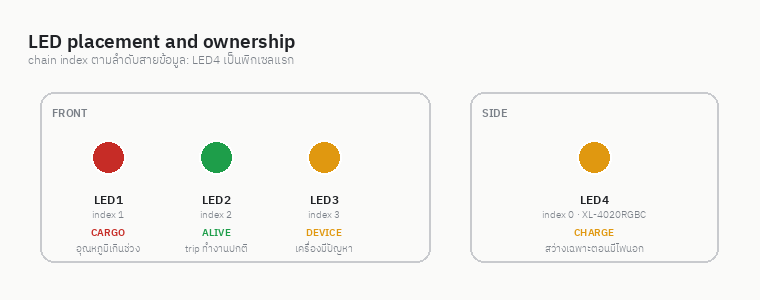
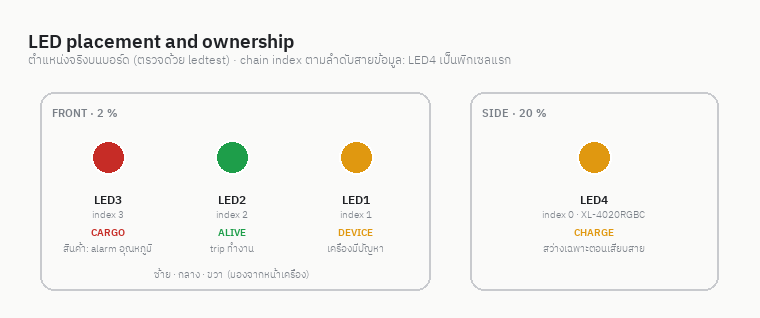
led-mock: redrawn from the firmware as built; led-design: LED names as on the board
- Front lights left to right are LED3 . LED2 . LED1 (checked with
  ledtest): CARGO is LED3 on the left, DEVICE is LED1 on the right. The
  design doc had LED1 as CARGO; roles and designators now match.
- Patterns from indicate.cpp / chargeled.cpp: TRIPLE 80/70 ms, breathe
  12-100 % over 2 s, the side light's steady, slow-blink and fault-blink;
  FAST dropped (defined, not used).
- Brightness on the map: front 2 %, side 20 %.
- New led_states.png: when each light shows, on battery and on USB.

diff --git a/led-mock/patterns.py b/led-mock/patterns.py
@@ -1,11 +1,17 @@
 #!/usr/bin/env python3
 """mCOLD LED pattern diagrams.
 
-Draws the pattern vocabulary as timelines and the four pixels as they sit
-on the enclosure. These are reference drawings for people, not panel
-output, so they are rendered normally (antialiased, full colour) unlike
-the e-paper mockups in ../display-mock.
+Draws the pattern vocabulary as timelines, the four pixels as they sit on
+the enclosure, and when each light shows. These are reference drawings for
+people, not panel output, so they are rendered normally (antialiased, full
+colour) unlike the e-paper mockups in ../display-mock.
+
+Every timing and colour here is the firmware's, as built (updated
+2026-10-03): front patterns in firmware/src/indicate.cpp (PATS, sweep),
+the side light in firmware/src/chargeled.cpp, pixel order in
+firmware/src/leds.h. Change those first, then this.
 """
+import math
 from pathlib import Path
 from PIL import Image, ImageDraw, ImageFont
 
@@ -17,7 +23,8 @@ MUTED = (122, 128, 136)
 PAPER = (250, 250, 249)
 GRID = (222, 224, 228)
 
-# LED colours as named in the spec, at the capped brightness they run at.
+# LED colours as the firmware sends them, drawn at full strength so they
+# can be told apart; the front pixels really run at 2 % and the side at 20 %.
 RED = (198, 44, 38)
 GREEN = (30, 158, 74)
 AMBER = (224, 152, 16)
@@ -29,36 +36,38 @@ def font(weight, size):
     return ImageFont.truetype(str(FONTS / f"IBMPlexSansThai-{weight}.ttf"), size)
 
 
-# (label, note, colour, sequence) where the sequence is (ms, on) pairs.
-# "on" may be "ramp" for the breathing pattern.
+# (label, note, colour, sequence): (ms, on) pairs, "on" may be "breathe".
+# Front patterns: indicate.cpp PATS. Side: chargeled.cpp render().
 PATTERNS = [
-    ("TICK", "heartbeat, one per wake cycle", GREEN, [(40, True)]),
-    ("BLINK", "single acknowledgement", BLUE, [(120, True)]),
-    ("DOUBLE", "alarm, cargo temperature out of band", RED,
-     [(80, True), (120, False), (80, True)]),
-    ("TRIPLE", "device fault, not the cargo", AMBER,
-     [(60, True), (100, False), (60, True), (100, False), (60, True)]),
-    ("FAST", "attention window only, 5 Hz for 1 s", RED,
-     [(60, True), (140, False)] * 5),
-    ("BREATHE", "charging; external power only", AMBER, [(2000, "ramp")]),
-    ("SWEEP", "boot self-test and locate; LED1 to LED3 in turn", WHITE,
+    ("TICK", "front · trip running (alive)", GREEN, [(40, True)]),
+    ("BLINK", "front · one acknowledgement", BLUE, [(120, True)]),
+    ("DOUBLE", "front · cargo alarm", RED, [(80, True), (120, False), (80, True)]),
+    ("TRIPLE", "front · device problem; trip started (green)", AMBER,
+     [(80, True), (70, False), (80, True), (70, False), (80, True)]),
+    ("SWEEP", "front · boot: left → middle → right, 80 ms each", WHITE,
      [(80, True), (0, False), (80, True), (0, False), (80, True)]),
+    ("BREATHE", "side · charging (amber) / ≥ 80 % (green), 12–100 %", AMBER,
+     [(2000, "breathe")]),
+    ("STEADY", "side · charge full", GREEN, [(2000, True)]),
+    ("SLOW BLINK", "side · power in, not charging: 120 ms every 2 s", AMBER,
+     [(120, True), (1880, False)]),
+    ("FAULT BLINK", "side · charge fault: 120 ms every 1 s", RED,
+     [(120, True), (880, False), (120, True), (880, False)]),
 ]
 
 SPAN = 2400  # ms drawn on every timeline
 
 
 def vocabulary():
-    row_h, top, left, width = 46, 74, 232, 560
+    row_h, top, left, width = 46, 74, 300, 520
     h = top + row_h * len(PATTERNS) + 34
-    img = Image.new("RGB", (left + width + 130, h), PAPER)
+    img = Image.new("RGB", (left + width + 100, h), PAPER)
     d = ImageDraw.Draw(img)
 
     d.text((28, 26), "LED pattern vocabulary", font=font("SemiBold", 19), fill=INK)
-    d.text((28, 50), "ทุก pattern จบในตัวเอง ไม่มีสถานะติดค้าง · rail เปิดเฉพาะช่วงที่วาดไว้",
+    d.text((28, 50), "ทุก pattern จบในตัวเอง ไม่มีสถานะติดค้าง · rail เปิดเฉพาะช่วงที่วาดไว้ · ตาม firmware 0.7",
            font=font("Light", 12), fill=MUTED)
 
-    # Time grid every 500 ms
     for ms in range(0, SPAN + 1, 500):
         x = left + width * ms / SPAN
         d.line([(x, top - 8), (x, top + row_h * len(PATTERNS) - 10)], fill=GRID)
@@ -76,28 +85,25 @@ def vocabulary():
         t = 0
         for ms, on in seq:
             x0 = left + width * t / SPAN
-            x1 = left + width * (t + ms) / SPAN
-            if on == "ramp":
-                # Breathing: brightness ramps up then back down.
-                steps = 48
+            x1 = left + width * min(t + ms, SPAN) / SPAN
+            if on == "breathe":
+                # chargeled.cpp: 0.12 + 0.88 * (1 - cos) / 2 over 2 s.
+                steps = 64
                 for s in range(steps):
-                    a = s / (steps - 1)
-                    level = 1 - abs(2 * a - 1)
+                    level = 0.12 + 0.88 * 0.5 * (1 - math.cos(2 * math.pi * s / steps))
                     bx0 = x0 + (x1 - x0) * s / steps
                     bx1 = x0 + (x1 - x0) * (s + 1) / steps + 1
                     bar = tuple(round(p + (PAPER[j] - p) * (1 - level))
                                 for j, p in enumerate(color))
                     d.rectangle([(bx0, y + 8), (bx1, y + 25)], fill=bar)
             elif on:
-                box = [(x0, y + 8), (max(x1, x0 + 2), y + 25)]
-                d.rectangle(box, fill=color,
+                d.rectangle([(x0, y + 8), (max(x1, x0 + 2), y + 25)], fill=color,
                             outline=MUTED if color is WHITE else None)
             t += ms
         if name == "SWEEP":
-            for k in range(3):
+            for k, lbl in enumerate(("L", "M", "R")):
                 x = left + width * (k * 80 + 40) / SPAN
-                d.text((x, y + 12), str(k + 1), font=font("SemiBold", 9),
-                       fill=INK, anchor="mm")
+                d.text((x, y + 17), lbl, font=font("SemiBold", 9), fill=INK, anchor="mm")
         total = sum(ms for ms, _ in seq)
         d.text((left + width + 12, y + 16), f"{total} ms", font=font("Light", 11),
                fill=MUTED, anchor="lm")
@@ -107,37 +113,78 @@ def vocabulary():
 
 
 def led_map():
-    img = Image.new("RGB", (760, 300), PAPER)
+    img = Image.new("RGB", (760, 318), PAPER)
     d = ImageDraw.Draw(img)
     d.text((28, 26), "LED placement and ownership", font=font("SemiBold", 19), fill=INK)
-    d.text((28, 50), "chain index ตามลำดับสายข้อมูล: LED4 เป็นพิกเซลแรก",
+    d.text((28, 50), "ตำแหน่งจริงบนบอร์ด (ตรวจด้วย ledtest) · chain index ตามลำดับสายข้อมูล: LED4 เป็นพิกเซลแรก",
            font=font("Light", 12), fill=MUTED)
 
-    # Front face: the row of three status pixels.
-    d.rounded_rectangle([(40, 92), (430, 262)], 14, outline=(200, 202, 206), width=2)
-    d.text((52, 104), "FRONT", font=font("SemiBold", 11), fill=MUTED)
-    front = [("LED1", "index 1", RED, "CARGO", "อุณหภูมิเกินช่วง"),
-             ("LED2", "index 2", GREEN, "ALIVE", "trip ทำงานปกติ"),
-             ("LED3", "index 3", AMBER, "DEVICE", "เครื่องมีปัญหา")]
+    d.rounded_rectangle([(40, 92), (430, 290)], 14, outline=(200, 202, 206), width=2)
+    d.text((52, 104), "FRONT · 2 %", font=font("SemiBold", 11), fill=MUTED)
+    front = [("LED3", "index 3", RED, "CARGO", "สินค้า: alarm อุณหภูมิ"),
+             ("LED2", "index 2", GREEN, "ALIVE", "trip ทำงาน"),
+             ("LED1", "index 1", AMBER, "DEVICE", "เครื่องมีปัญหา")]
     for i, (name, idx, color, role, note) in enumerate(front):
-        cx = 108 + i * 108
+        cx = 108 + i * 124
         d.ellipse([(cx - 17, 140), (cx + 17, 174)], fill=color,
                   outline=(255, 255, 255), width=2)
         d.text((cx, 190), name, font=font("SemiBold", 12), fill=INK, anchor="ma")
         d.text((cx, 206), idx, font=font("Light", 10), fill=MUTED, anchor="ma")
         d.text((cx, 224), role, font=font("SemiBold", 10), fill=color, anchor="ma")
         d.text((cx, 240), note, font=font("Light", 10), fill=MUTED, anchor="ma")
+    d.text((232, 266), "ซ้าย · กลาง · ขวา  (มองจากหน้าเครื่อง)", font=font("Light", 10),
+           fill=MUTED, anchor="ma")
 
-    # Side face: the charge pixel.
-    d.rounded_rectangle([(470, 92), (718, 262)], 14, outline=(200, 202, 206), width=2)
-    d.text((482, 104), "SIDE", font=font("SemiBold", 11), fill=MUTED)
+    d.rounded_rectangle([(470, 92), (718, 290)], 14, outline=(200, 202, 206), width=2)
+    d.text((482, 104), "SIDE · 20 %", font=font("SemiBold", 11), fill=MUTED)
     d.ellipse([(577, 140), (611, 174)], fill=AMBER, outline=(255, 255, 255), width=2)
     d.text((594, 190), "LED4", font=font("SemiBold", 12), fill=INK, anchor="ma")
     d.text((594, 206), "index 0 · XL-4020RGBC", font=font("Light", 10), fill=MUTED, anchor="ma")
     d.text((594, 224), "CHARGE", font=font("SemiBold", 10), fill=AMBER, anchor="ma")
-    d.text((594, 240), "สว่างเฉพาะตอนมีไฟนอก", font=font("Light", 10), fill=MUTED, anchor="ma")
+    d.text((594, 240), "สว่างเฉพาะตอนเสียบสาย", font=font("Light", 10), fill=MUTED, anchor="ma")
 
     img.save(OUT / "led_map.png")
+    return img
+
+
+# (event, light, pattern, colour, on battery, on USB)
+STATES = [
+    ("เปิดเครื่อง", "ทั้ง 3", "SWEEP ขาว แล้ว BLINK เขียว", WHITE, "ครั้งเดียวตอนบูต", "ครั้งเดียวตอนบูต"),
+    ("เปิดเครื่อง มีปัญหา", "ขวา", "TRIPLE เหลือง (แทน BLINK)", AMBER, "ครั้งเดียวตอนบูต", "ครั้งเดียวตอนบูต"),
+    ("แตะ NFC", "ทั้ง 3", "BLINK ขาว", WHITE, "ทันที", "ทันที"),
+    ("เริ่ม trip", "กลาง", "TRIPLE เขียว", GREEN, "ทันที", "ทันที"),
+    ("trip ทำงาน", "กลาง", "TICK เขียว", GREEN, "ทุก 15 นาที", "ทุก 1 วินาที"),
+    ("หยุด trip", "กลาง", "BLINK เขียว", GREEN, "ทันที", "ทันที"),
+    ("alarm อุณหภูมิ", "ซ้าย", "DOUBLE แดง + บี๊บ 3", RED, "ทันที แล้วทุกรอบตื่น (5 นาที)", "ทุก 1 วินาที"),
+    ("รับทราบ alarm", "ซ้าย", "BLINK น้ำเงิน", BLUE, "ทันที", "ทันที"),
+    ("เครื่องมีปัญหา", "ขวา", "TRIPLE เหลือง", AMBER, "ทันที แล้วทุก 15 นาที", "ทุก 1 วินาที"),
+    ("มีคนขยับกล่อง", "ตามสถานะ", "สถานะทั้งหมด 1 เฟรม", MUTED, "หน้าต่าง 2 วินาที, ≤ 4 ครั้ง/ชม.", "หน้าต่าง 30 วินาที"),
+    ("เสียบชาร์จ", "ข้าง", "BREATHE / STEADY / BLINK", AMBER, "—", "ตลอดที่เสียบ"),
+]
+
+
+def states():
+    cols = [28, 210, 300, 530, 760]   # event, light, pattern, battery, usb
+    row_h, top = 30, 104
+    img = Image.new("RGB", (1000, top + row_h * len(STATES) + 40), PAPER)
+    d = ImageDraw.Draw(img)
+    d.text((28, 26), "When each light shows", font=font("SemiBold", 19), fill=INK)
+    d.text((28, 50), "บนแบต เครื่องหลับระหว่างรอบ ไฟจึงติดเฉพาะตอนตื่น · เสียบ USB เครื่องไม่หลับ จังหวะถี่ขึ้น",
+           font=font("Light", 12), fill=MUTED)
+    for x, h in zip(cols, ("เหตุการณ์", "ไฟ", "รูปแบบ", "บนแบต", "เสียบ USB")):
+        d.text((x, 80), h, font=font("SemiBold", 11), fill=MUTED)
+    d.line([(28, 98), (972, 98)], fill=GRID, width=2)
+    for i, (ev, light, pat, color, batt, usb) in enumerate(STATES):
+        y = top + i * row_h
+        d.text((cols[0], y + 4), ev, font=font("Regular", 12), fill=INK)
+        d.ellipse([(cols[1], y + 6), (cols[1] + 12, y + 18)], fill=color,
+                  outline=MUTED if color is WHITE else None)
+        d.text((cols[1] + 20, y + 4), light, font=font("Light", 12), fill=INK)
+        d.text((cols[2], y + 4), pat, font=font("Regular", 12), fill=INK)
+        d.text((cols[3], y + 4), batt, font=font("Light", 12), fill=INK)
+        d.text((cols[4], y + 4), usb, font=font("Light", 12), fill=INK)
+        d.line([(28, y + row_h - 3), (972, y + row_h - 3)], fill=GRID)
+    img.save(OUT / "led_states.png")
     return img
 
 
@@ -145,4 +192,5 @@ if __name__ == "__main__":
     OUT.mkdir(exist_ok=True)
     vocabulary()
     led_map()
-    print(f"2 diagrams -> {OUT}")
+    states()
+    print(f"3 diagrams -> {OUT}")
